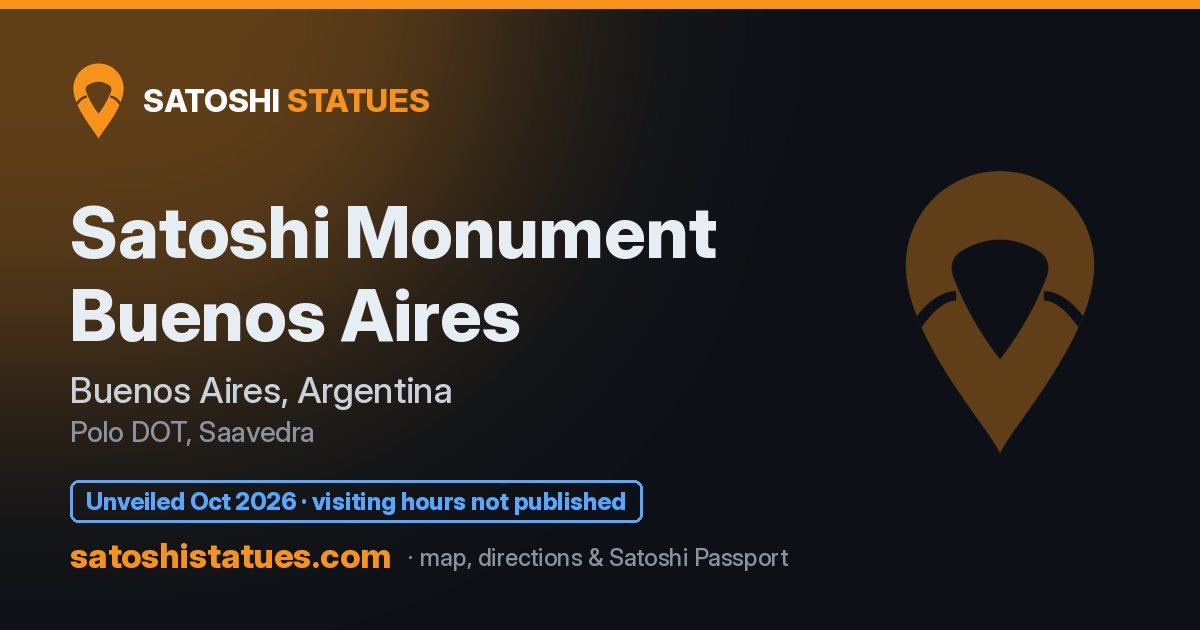
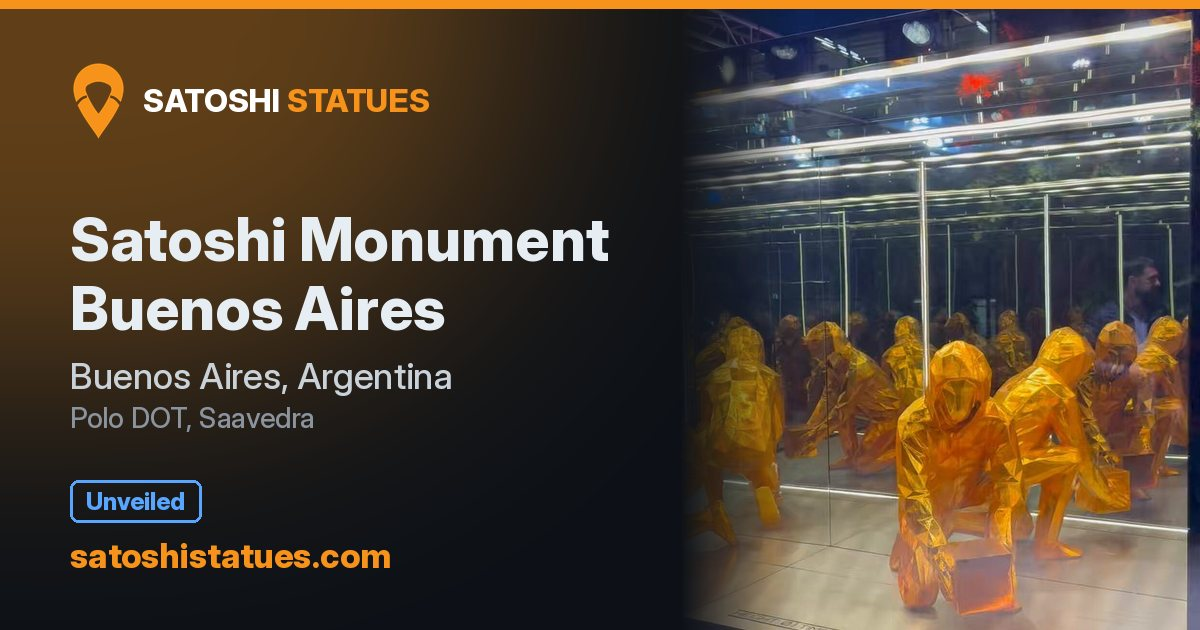
Buenos Aires: host the statue photo on the site (X thumbnail blocks hotlinking)

diff --git a/buenos-aires/index.html b/buenos-aires/index.html
@@ -39,7 +39,7 @@
  "url": "https://www.satoshistatues.com/buenos-aires/",
  "image": {
   "@type": "ImageObject",
-  "url": "https://pbs.twimg.com/amplify_video_thumb/2115950989060501504/img/lrX3lM1ZxObBQ5VR.jpg",
+  "url": "https://www.satoshistatues.com/satoshi-buenos-aires.jpg",
   "creditText": "@labitconf"
  },
  "geo": {
@@ -143,7 +143,7 @@ footer.site{border-top:1px solid #30363d;margin-top:30px;padding-top:14px;font-s
     <p class="sub">Polo DOT, Saavedra · Buenos Aires, Argentina · 📍 Pin: Polo DOT office park; exact spot not published</p>
     <p class="confirmed">Last reported: <strong>Oct 2026</strong> · <a href="https://x.com/BitcoinAR/status/2116131286360187206" target="_blank" rel="noopener noreferrer">News/official report</a></p>
     
-    <figure><img src="https://pbs.twimg.com/amplify_video_thumb/2115950989060501504/img/lrX3lM1ZxObBQ5VR.jpg" alt="Satoshi Monument Buenos Aires, Polo DOT, Saavedra, Buenos Aires" width="675" height="1200" decoding="async" onerror="this.closest('figure').remove()"><figcaption>Buenos Aires · Polo DOT, Saavedra<span class="photo-credit">Photo: <a href="https://x.com/labitconf" target="_blank" rel="noopener noreferrer">@labitconf</a></span></figcaption></figure>
+    <figure><img src="/satoshi-buenos-aires.jpg" alt="Satoshi Monument Buenos Aires, Polo DOT, Saavedra, Buenos Aires" width="675" height="1200" decoding="async" onerror="this.closest('figure').remove()"><figcaption>Buenos Aires · Polo DOT, Saavedra<span class="photo-credit">Photo: <a href="https://x.com/labitconf" target="_blank" rel="noopener noreferrer">@labitconf</a></span></figcaption></figure>
     <dl class="facts">
       <dt>Location</dt><dd>Polo DOT, Saavedra, Buenos Aires, Argentina</dd>
       <dt>Unveiled</dt><dd>29 Oct 2026</dd>

diff --git a/index.html b/index.html
@@ -1401,7 +1401,7 @@
         "note": "“El Génesis de Satoshi Nakamoto”: a 2.4 m stainless-steel and glass cube inspired by Bitcoin’s genesis block. Unveiled on 29 Oct 2026 at Polo DOT in Buenos Aires, at the opening of LABITCONF 2026. Public visiting hours haven’t been published yet.",
         "stamp_note": "Not on the Satoshi Passport yet, so it can’t be stamped (not counted in the total). Public visiting hours haven’t been published yet.",
         "stamp_short": "No stamp yet (visiting hours not published)",
-        "img": "https://pbs.twimg.com/amplify_video_thumb/2115950989060501504/img/lrX3lM1ZxObBQ5VR.jpg",
+        "img": "satoshi-buenos-aires.jpg",
         "imgW": 675,
         "imgH": 1200,
         "photo_credit": "@labitconf",
